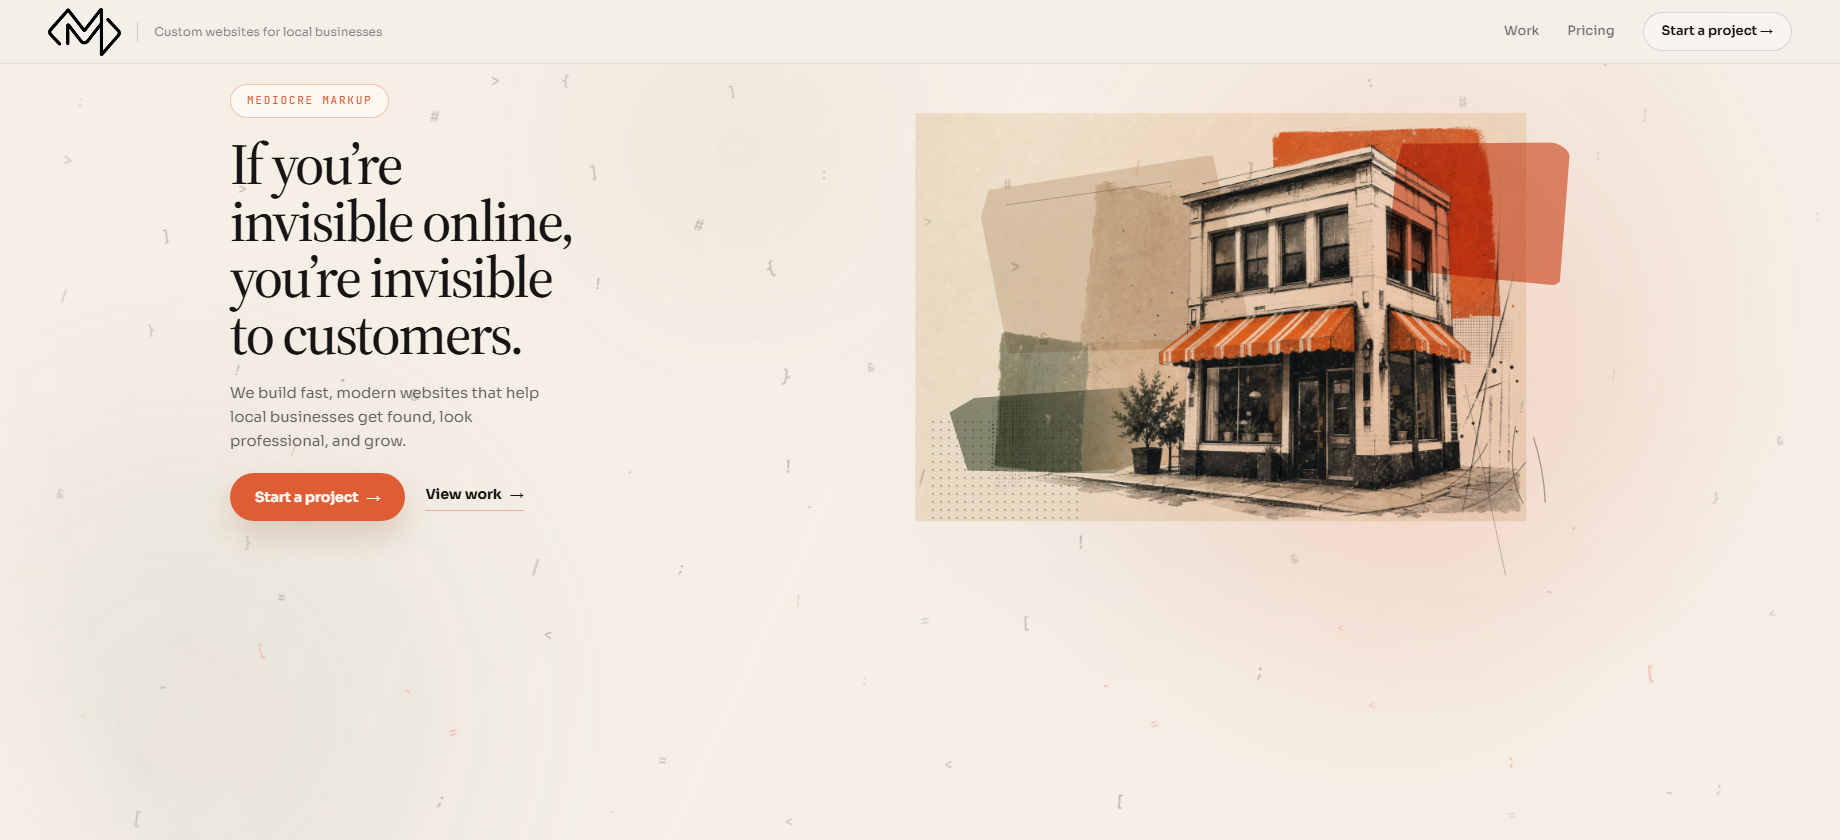
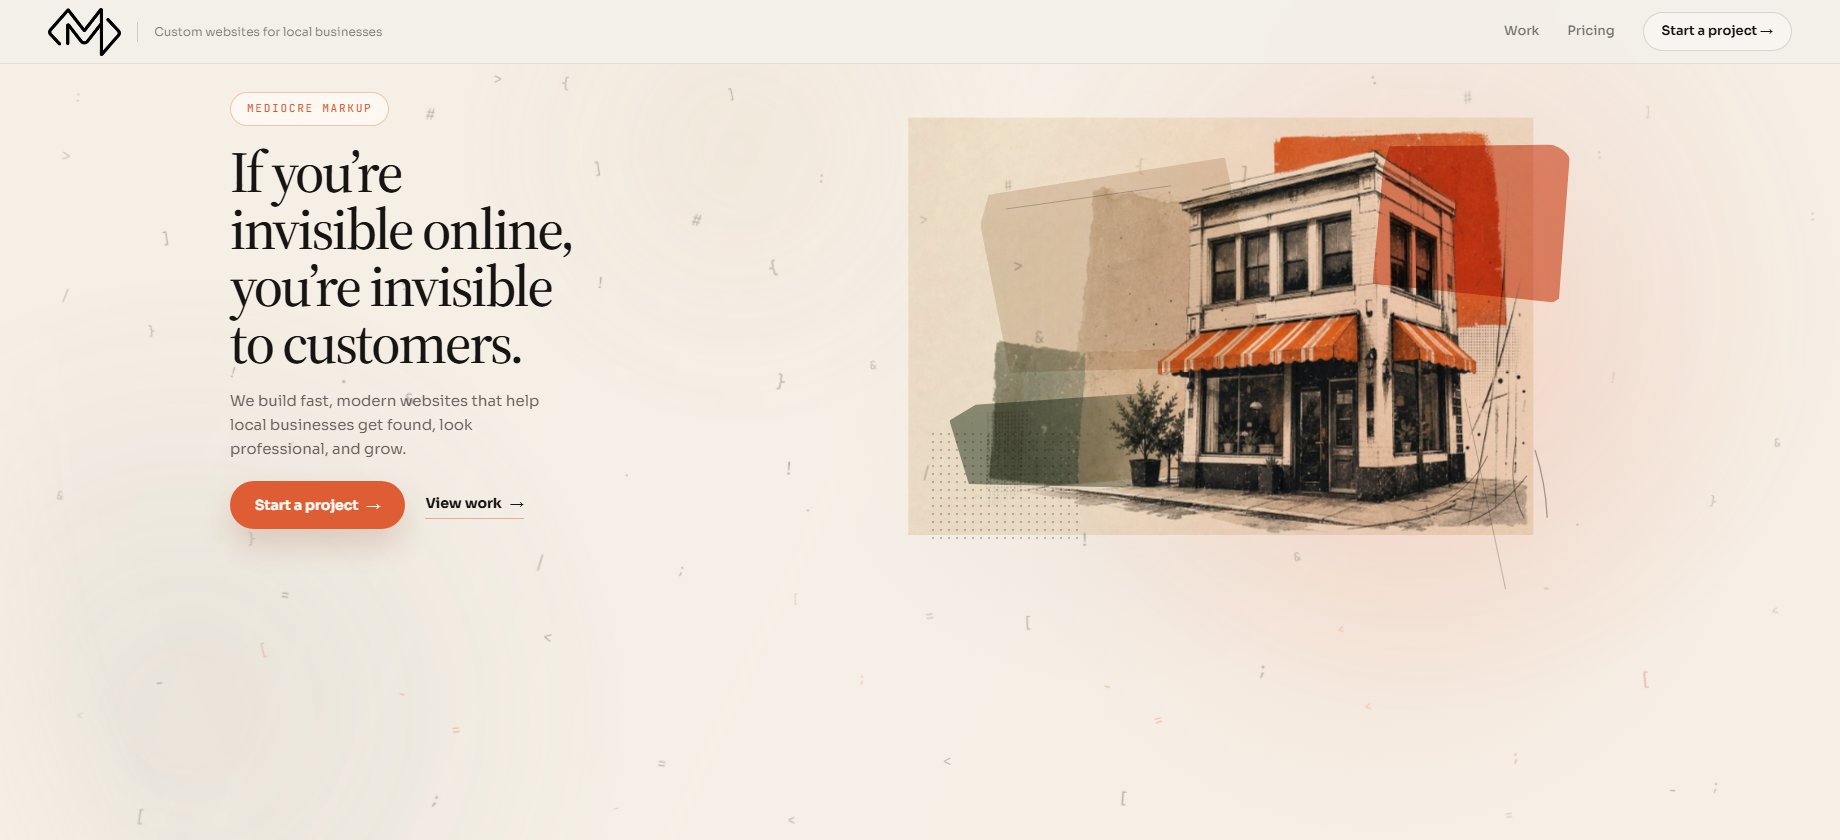
golly this takin  a bit

Changed region(s): [[0.4957, 0.1238, 0.8674, 0.65], [0.1239, 0.0929, 0.3098, 0.4333], [0.1239, 0.4643, 0.3098, 0.65]]

diff --git a/index.html b/index.html
@@ -7870,33 +7870,33 @@
       }
 
       .hero-artwork {
-        width: min(100%, 700px);
-        min-height: min(57svh, 540px);
+        width: min(100%, 760px);
+        min-height: min(59svh, 560px);
       }
 
       .hero-building {
-        width: min(650px, 88%);
+        width: min(700px, 90%);
       }
 
       .art-swatch.one {
         left: 10%;
         top: 18%;
-        width: 37%;
-        height: 40%;
+        width: 39%;
+        height: 42%;
       }
 
       .art-swatch.two {
         right: 6%;
         top: 13%;
-        width: 26%;
-        height: 30%;
+        width: 28%;
+        height: 32%;
       }
 
       .art-swatch.three {
         left: 5%;
         bottom: 17%;
-        width: 30%;
-        height: 18%;
+        width: 32%;
+        height: 19%;
       }
 
       .art-scribble {
